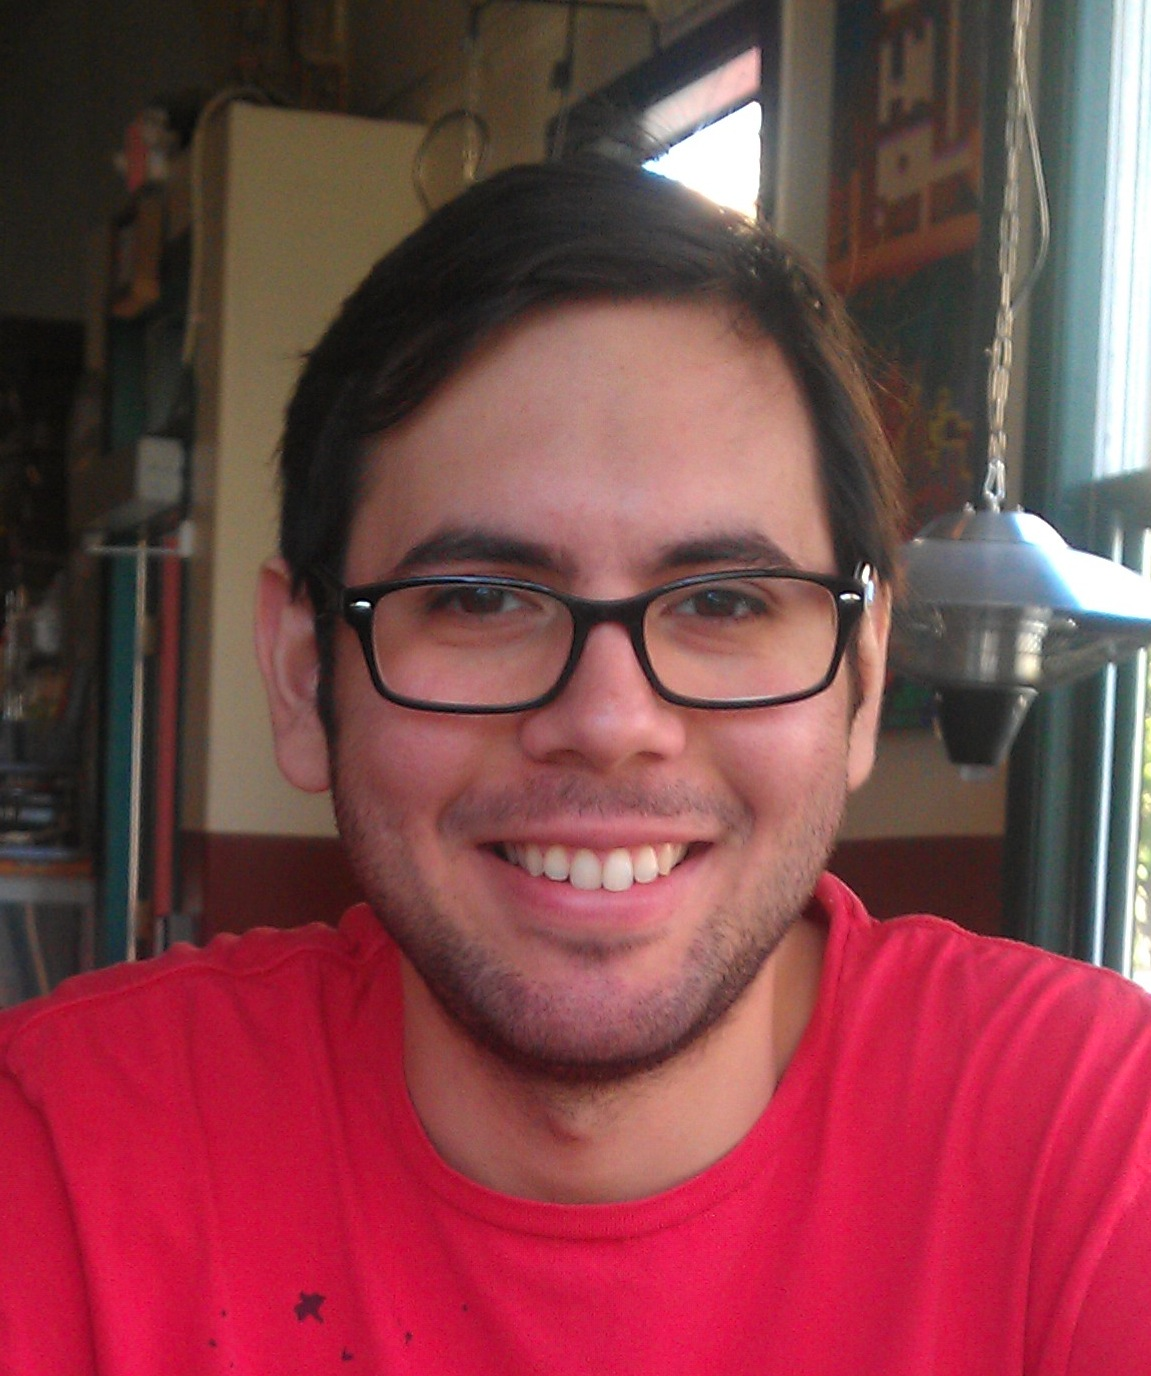
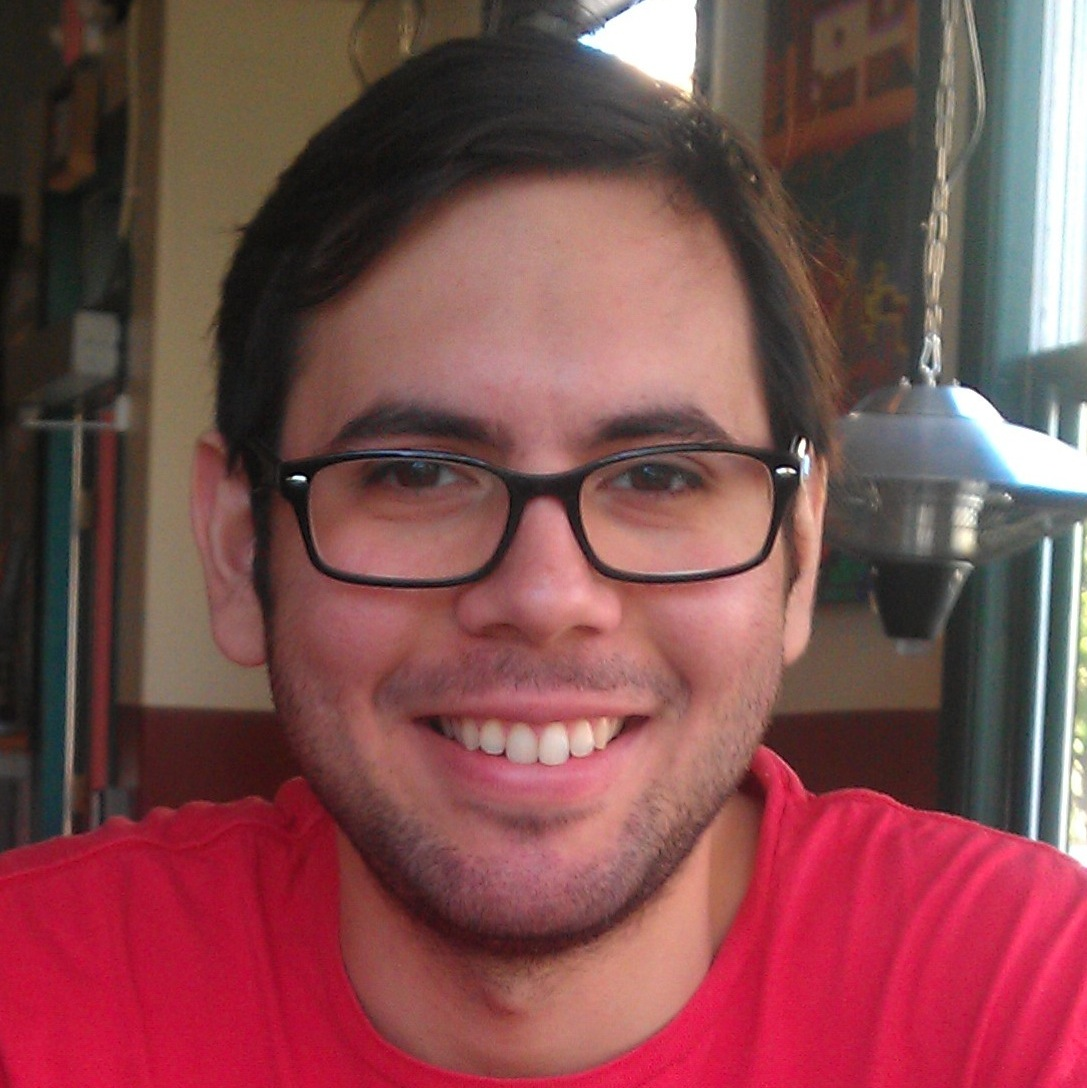
minor

diff --git a/_layouts/default.html b/_layouts/default.html
@@ -9,12 +9,16 @@
 
       <div class="container">
         <div class="page-header">
-          <h1>ali sinan köksal</h1>
+          <h1>
+            <div class="name-header">
+              ali sinan köksal
+            </div>
+          </h1>
         </div>
 
         <div class="row">
           <div class="col-md-3">
-              <img src="assets/img/ask.jpg" height="260">
+              <img src="assets/img/ask.jpg" width="220px">
               <h2>Contact</h2>
               <address>
               387 Soda Hall MC 1776

diff --git a/_less/main.less b/_less/main.less
@@ -2,6 +2,10 @@
 
 @brand-primary: #c0392b;
 
+.name-header {
+  font-size: 60px;
+}
+
 .image-header {
   height: 300px;
   width: 100%;
